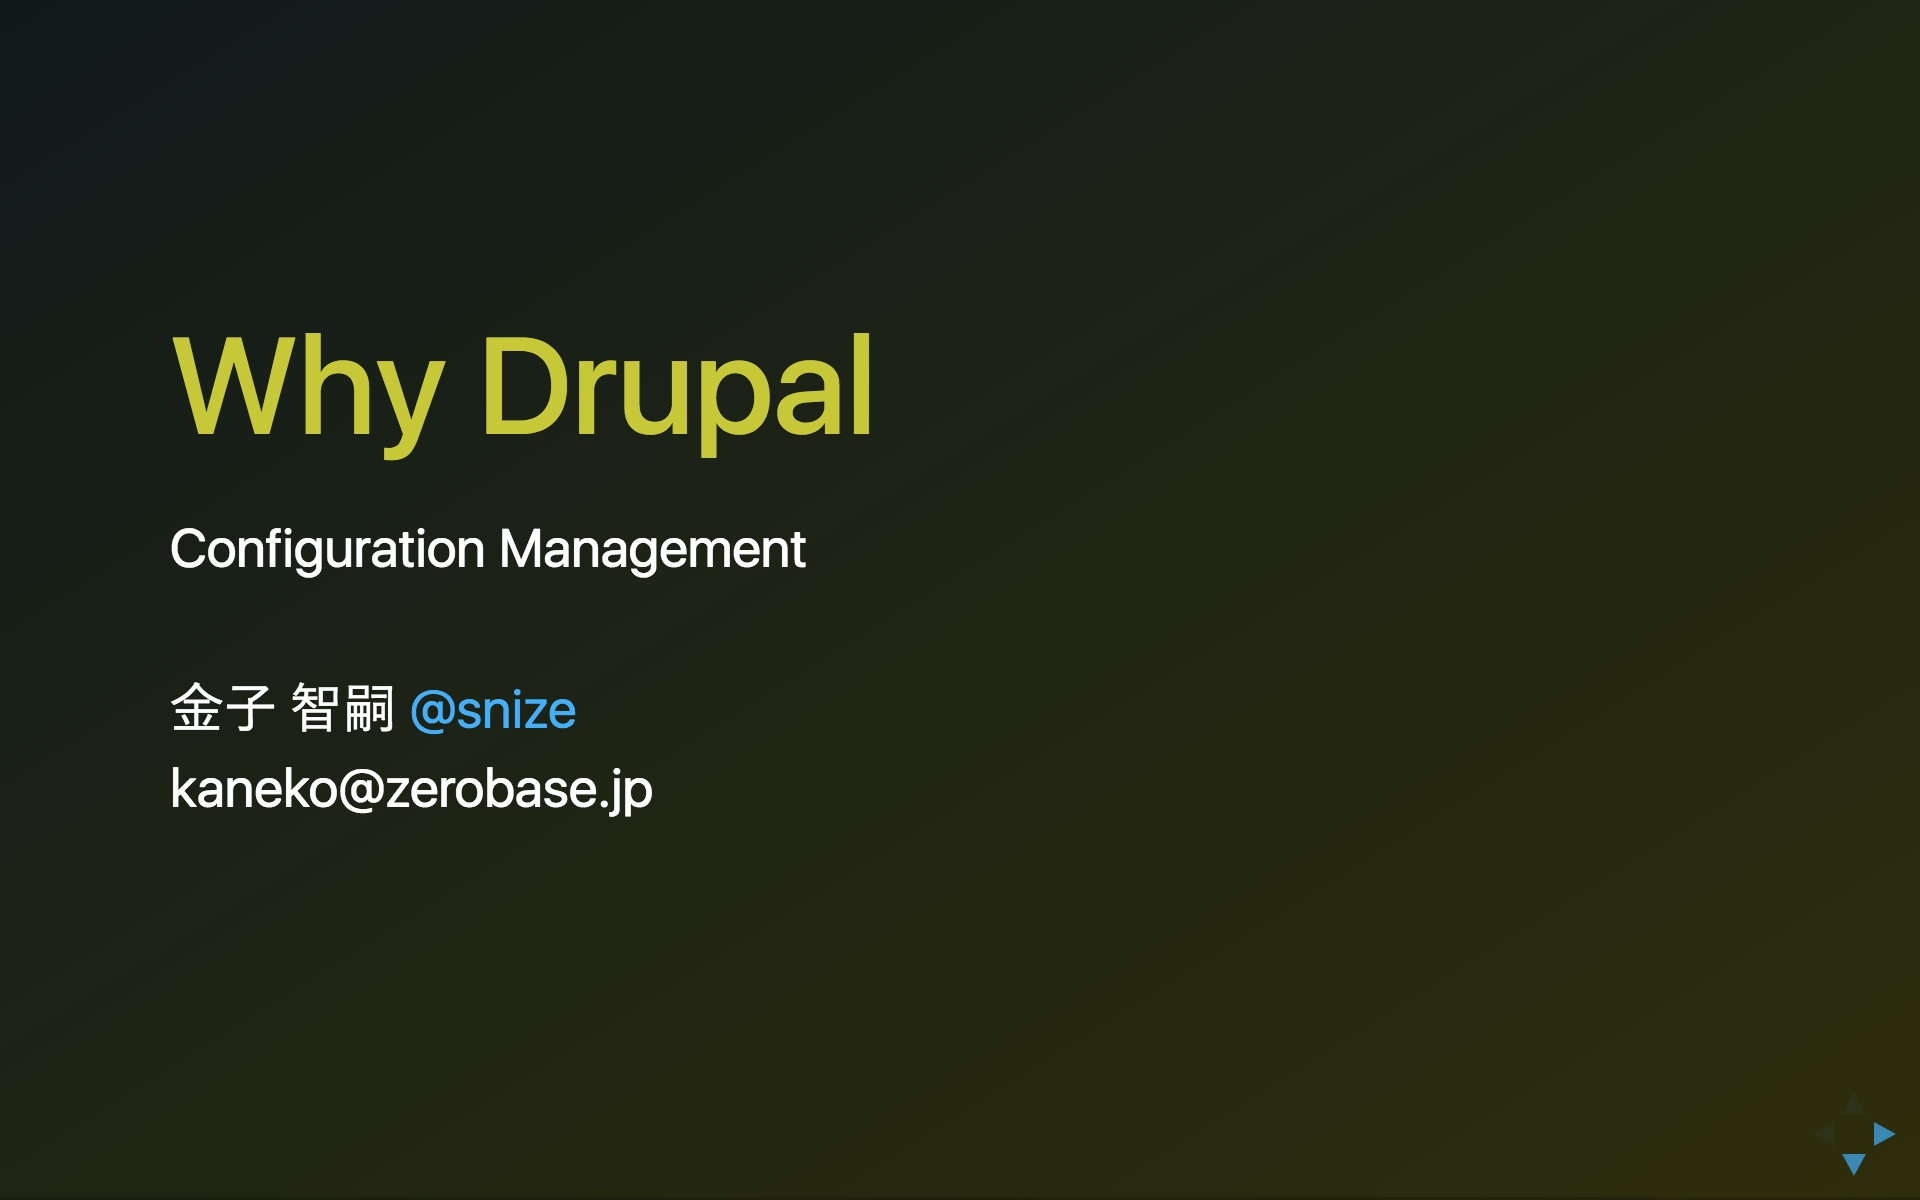
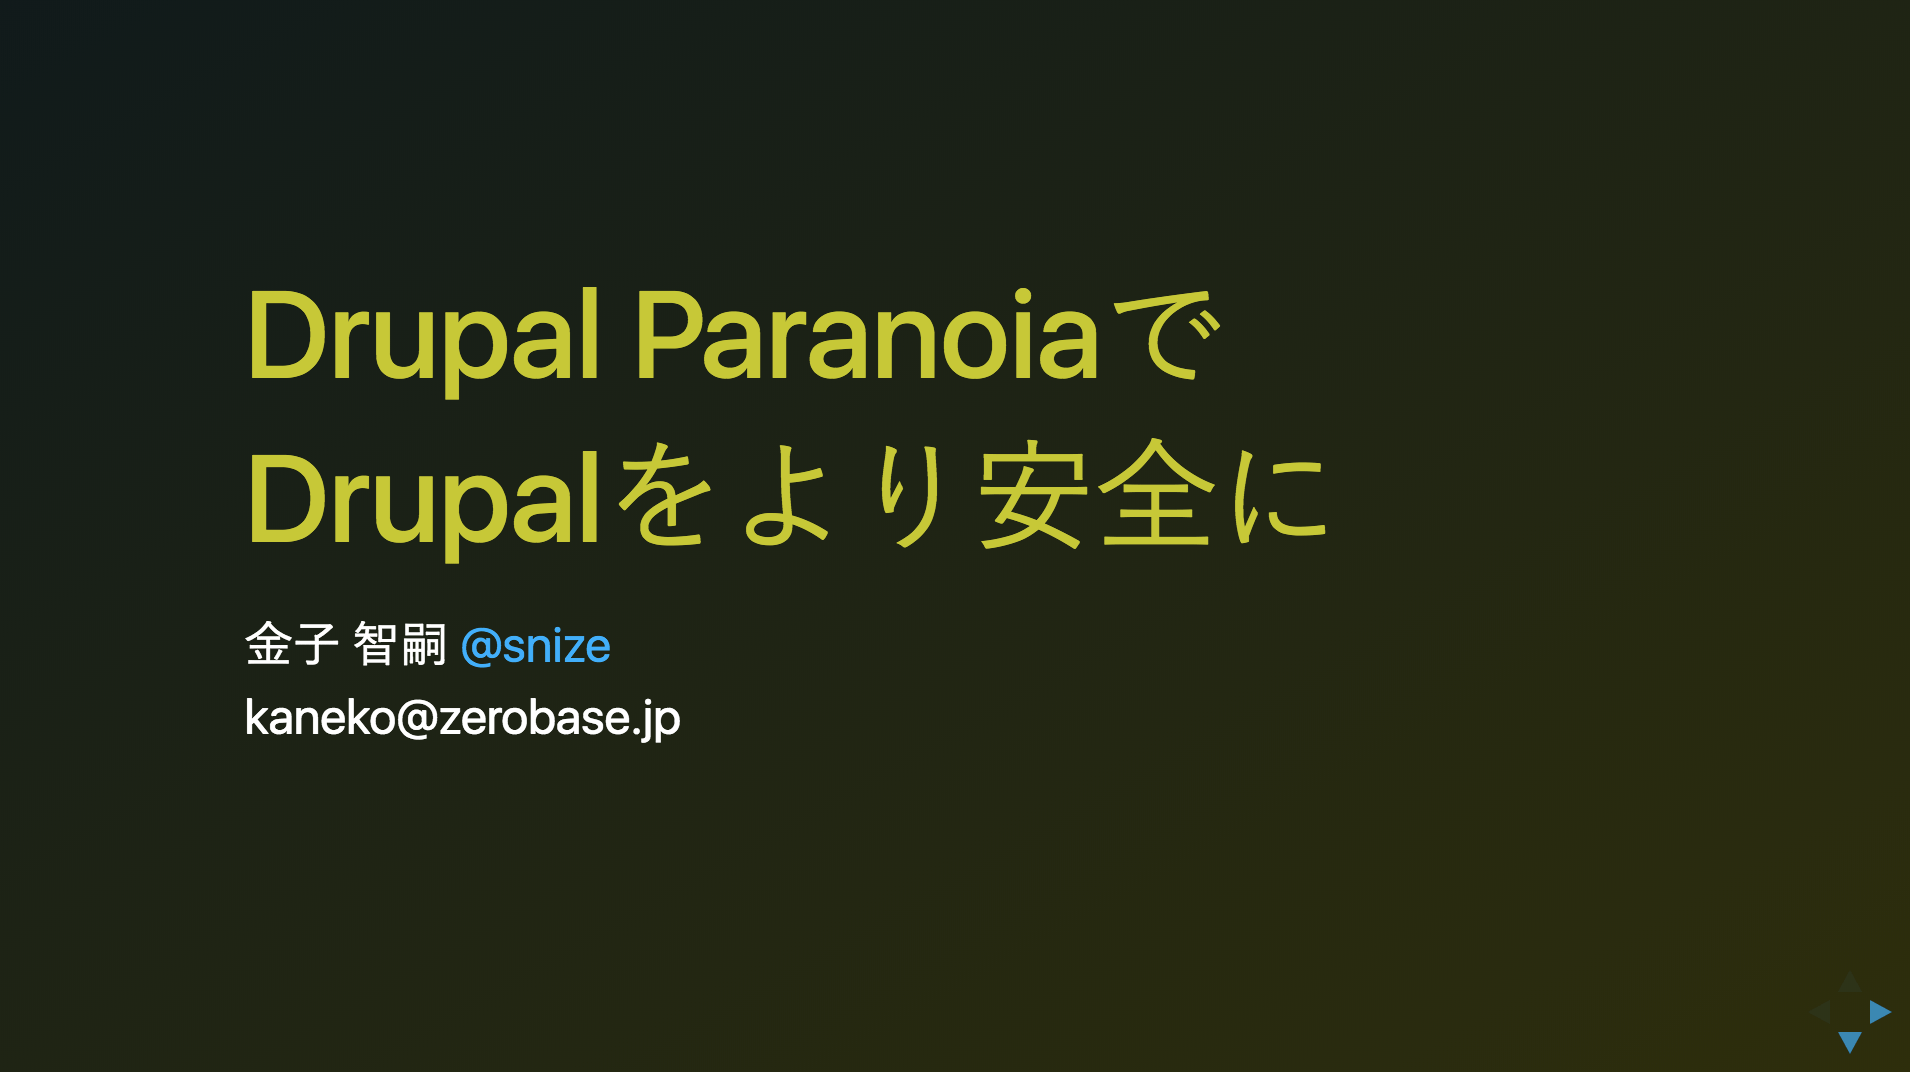
スライドのメタ情報を修正

diff --git a/index.html b/index.html
@@ -7,19 +7,19 @@
 
 	<!-- facebook open graph tags -->
 	<meta property="og:type" content="article" />
-	<meta property="og:url" content="https://snize.github.io/why_drupal_Configration_Management/#/" />
-	<meta property="og:title" content="Why Drupal - Configuration Management" />
-	<meta property="og:description" content="私がDrupalを採用する理由" />
-	<meta property="og:image" content="https://snize.github.io/why_drupal_Configration_Management/img/slide.png" />
+	<meta property="og:url" content="https://snize.github.io/demo_drupal-paranoia/#/" />
+	<meta property="og:title" content="Secure your site with Drupal Paranoia" />
+	<meta property="og:description" content="Drupal ParanoiaでDrupalをより安全に" />
+	<meta property="og:image" content="https://snize.github.io/demo_drupal-paranoia/img/slide.png" />
 
 	<!--- twitter card tags additive with the og: tags -->
 	<meta name="twitter:card" content="summary_large_image">
 	<meta name="twitter:domain" value="snize.github.io" />
-	<meta name="twitter:title" value="Why Drupal - Configuration Management" />
-	<meta name="twitter:description" value="私がDrupalを採用する理由" />
-	<meta name="twitter:image" content="https://snize.github.io/why_drupal_Configration_Management/img/slide.png" />
-	<meta name="twitter:url" value="https://snize.github.io/why_drupal_Configration_Management/#/" />
-	<title>Why Drupal - Configuration Management</title>
+	<meta name="twitter:title" value="Secure your site with Drupal Paranoia" />
+	<meta name="twitter:description" value="Drupal ParanoiaでDrupalをより安全に" />
+	<meta name="twitter:image" content="https://snize.github.io/demo_drupal-paranoia/img/slide.png" />
+	<meta name="twitter:url" value="https://snize.github.io/demo_drupal-paranoia/#/" />
+	<title>Secure your site with Drupal Paranoia</title>
 
 	<link rel="stylesheet" href="css/reveal.css">
 	<link rel="stylesheet" href="css/theme/snize.css">
